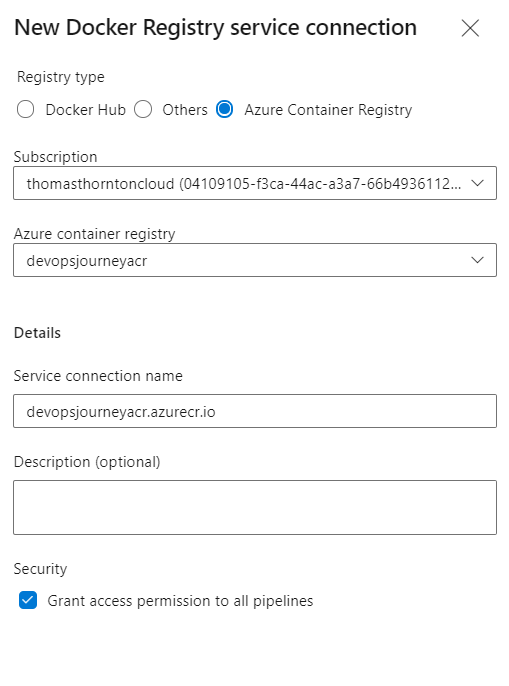
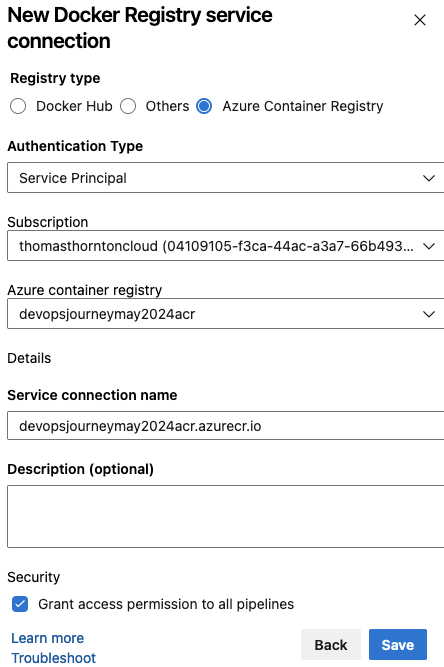
update lab3

diff --git a/labs/3-Deploy-App-to-ACR/1-Deploy-App-to-ACR.md b/labs/3-Deploy-App-to-ACR/1-Deploy-App-to-ACR.md
@@ -1,31 +1,41 @@
 # Deploy sample Application to Container Registry
 
-This lab is to deploy the same Application to Container Registry
+This lab will help you deploy a sample application to the Azure Container Registry (ACR).
 
-1. The Docker image can be built and ran locally to test - see [here](docker-image-locally.md)
+1. Test the Docker Image Locally
 
-2. We want to run this Docker build and publish directly to the created Azure Container Registry in lab 2. 
+Before deploying, you can build and run the Docker image locally to ensure it works correctly. Follow the instructions [here](docker-image-locally.md).
+
+2. Build and Publish Docker Image to ACR
+
+We aim to run the Docker build and publish the image directly to the Azure Container Registry created in lab 2.
 
 3. Create a new service connection for ACR access.
-   - Within your Azure DevOps Project – select **Project Settings**
-   - Select **Service Connections** -> **Docker Registry** -> Select registry type: **Azure Container Registry**
-   - Select correct ACR and create service connection name. I have given devopsjourneyacr.azurecr.io as my service connection name
+- In your Azure DevOps Project, go to Project Settings.
+- Select Service Connections.
+- Click New Service Connection and choose Docker Registry.
+- Select the registry type: Azure Container Registry.
+- Choose the correct ACR and create a service connection name. For example, devopsjourneymay2024acr
 
 ![](images/deploy-app-to-acr-1.png)
 
-6. Copy the app folder to Azure DevOps repo
+4. Copy Application Folder to Azure DevOps Repository
 
-7. Update pipeline in Azure DevOps repo with the below updates:
+Copy the `aspnet-core-dotnet-core` folder to your Azure DevOps repository.
+
+5. Update pipeline in Azure DevOps repo with the below updates:
 - [Updated variables](https://github.com/thomast1906/DevOps-Journey-Using-Azure-DevOps/blob/main/labs/3-Deploy-App-to-ACR/pipelines/lab3pipeline.yaml#L23-L28)
   - repository: ACR repository name
   - dockerfile: Dockerfile location
   - containerRegistry: Service connection name of container registry
-- [Add Build Stage](https://github.com/thomast1906/DevOps-Journey-Using-Azure-DevOps/blob/main/labs/3-Deploy-App-to-ACR/pipelines/lab3pipeline.yaml#L125-L138)
+- [Add Build Stage](https://github.com/thomast1906/DevOps-Journey-Using-Azure-DevOps/blob/main/labs/3-Deploy-App-to-ACR/pipelines/lab3pipeline.yaml#L89-L102)
 
-8. Run pipeline, you will see an additional stage on pipeline
+6. Run pipeline, you will see an additional stage on pipeline
 
 ![](images/deploy-app-to-acr-3.png)
 
-9. Reviewing in ACR, you will see the image 
+7. Reviewing in ACR, you will see the image 
 
 ![](images/deploy-app-to-acr-2.png)
+
+By following these steps, you will deploy the sample application to Azure Container Registry.
